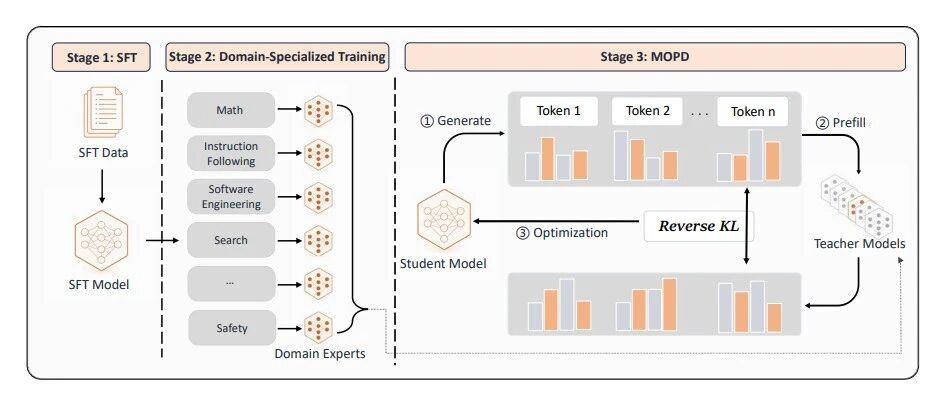
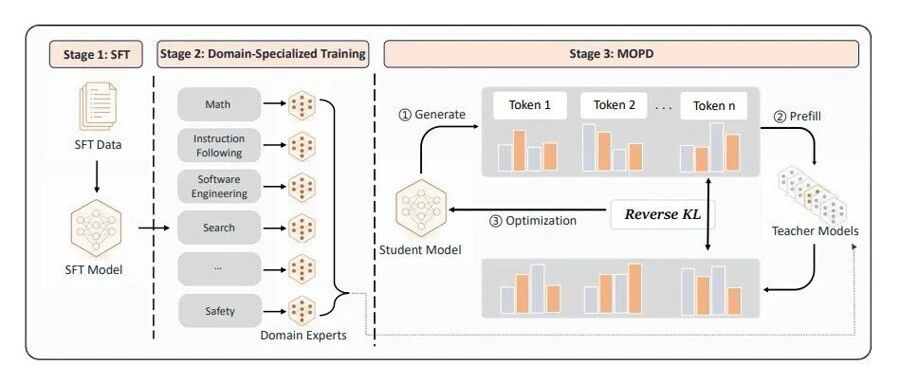
auto: mopd, opd (+5, ~6)

diff --git a/mopd/draft_from_server.html b/mopd/draft_from_server.html
@@ -1,1 +1,1 @@
-<section style="font-family: -apple-system-font,BlinkMacSystemFont, Helvetica Neue, PingFang SC, Hiragino Sans GB , Microsoft YaHei UI , Microsoft YaHei ,Arial,sans-serif;font-size: 16px;line-height: 1.75;text-align: left;"><p><strong style="font-weight: bold;font-size: 16px;color: #1a6ba0;"><span leaf="">要点速览</span></strong></p><p><span leaf="">&nbsp;-&nbsp;</span><strong style="color: #0F4C81;font-weight: bold;font-size: inherit;"><span leaf="">MOPD是什么</span></strong><span leaf="">：Multi-Teacher On-Policy Distillation，一种新的大模型后训练范式，先对各领域独立RL得到领域教师，再在学生自己的生成数据上做蒸馏，实现多领域能力集成。</span><span leaf=""><br  /></span><span leaf=""><br  /></span><span leaf="">&nbsp;-&nbsp;</span><strong style="color: #0F4C81;font-weight: bold;font-size: inherit;"><span leaf="">效果如何</span></strong><span leaf="">：在Qwen3-30B-A3B上归一化得分0.937，领先最佳基线5.5个点；三个领域能力覆盖91-95%，在所有对比方法中最均匀。</span><span leaf=""><br  /></span><span leaf=""><br  /></span><span leaf="">&nbsp;-&nbsp;</span><strong style="color: #0F4C81;font-weight: bold;font-size: inherit;"><span leaf="">结构优势</span></strong><span leaf="">：领域教师完全并行开发，不交叉影响；同源教师（same-origin）是稳定训练的关键：换更强但分布不同的教师反而会崩。</span><span leaf=""><br  /></span><span leaf=""><br  /></span><span leaf="">&nbsp;-&nbsp;</span><strong style="color: #0F4C81;font-weight: bold;font-size: inherit;"><span leaf="">工业验证</span></strong><span leaf="">：已部署在小米MiMo-V2-Flash（309B参数）的后训练流水线中，在大部分基准上媲美或超越领域专用教师。&nbsp;</span></p><hr style="border-style: solid;border-width: 2px 0 0;border-color: rgba(0, 0, 0, 0.1);-webkit-transform-origin: 0 0;-webkit-transform: scale(1, 0.5);transform-origin: 0 0;transform: scale(1, 0.5);height: 0.4em;margin: 1.5em 0;"  /><p style="margin: 1.5em 8px;letter-spacing: 0.1em;color: #3f3f3f;"><span leaf="">RL在LLM后训练中的成功已是共识：数学用可验证答案的PPO/GRPO，代码用沙箱Agent RL，指令遵循用评分标准。每一条流水线都可靠地提升了模型在其目标领域的能力。但问题很简单也极难：</span><strong style="color: #0F4C81;font-weight: bold;font-size: inherit;"><span leaf="">我们需要的是一个数学强人、一个编码高手、一个听话的助手：全部集于一身。</span></strong></p><p style="margin: 1.5em 8px;letter-spacing: 0.1em;color: #3f3f3f;"><span leaf="">把多个领域的能力放进一个模型而不互相干扰，这件事在公开文献中一直没有好的答案。Mix-RL的跷跷板效应、Cascade RL的能力衰退、Off-Policy Finetune的暴露偏差、Param-Merge的权重空间不稳定性：每一种都牺牲了某个维度。</span></p><p style="margin: 1.5em 8px;letter-spacing: 0.1em;color: #3f3f3f;"><span leaf="">小米和北大联合提出的MOPD（Multi-Teacher On-Policy Distillation）给出了一个新的解法：</span><strong style="color: #0F4C81;font-weight: bold;font-size: inherit;"><span leaf="">不在权重空间里搅合，也不在静态数据集上模仿，而是在策略空间中让学生直接向多位领域教师学习。</span></strong></p><p style="margin: 1.5em 8px;letter-spacing: 0.1em;color: #3f3f3f;"><strong style="color: #0F4C81;font-weight: bold;font-size: inherit;"><span leaf="">MOPD的三个阶段</span></strong></p><p style="margin: 1.5em 8px;letter-spacing: 0.1em;color: #3f3f3f;"><span leaf="">MOPD将后训练拆成三段：</span></p><ul style="list-style: circle;padding-left: 1em;margin-left: 0;color: #3f3f3f;" class="list-paddingleft-1"><li style="display: block;margin: 0.2em 8px;color: #3f3f3f;"><section><span leaf="">•&nbsp;</span><strong style="color: #0F4C81;font-weight: bold;font-size: inherit;"><span leaf="">Stage 1：通用SFT</span></strong><span leaf="">。在覆盖所有目标领域的语料上微调基础模型，得到一个共享起点。</span></section></li><li style="display: block;margin: 0.2em 8px;color: #3f3f3f;"><section><span leaf="">•&nbsp;</span><strong style="color: #0F4C81;font-weight: bold;font-size: inherit;"><span leaf="">Stage 2：领域特化RL</span></strong><span leaf="">。从共享起点出发，对每个领域独立训练一个RL专家。数学团队用可验证答案的RL，软件工程团队用沙箱Agent RL，互不干扰、完全并行。</span></section></li><li style="display: block;margin: 0.2em 8px;color: #3f3f3f;"><section><span leaf="">•&nbsp;</span><strong style="color: #0F4C81;font-weight: bold;font-size: inherit;"><span leaf="">Stage 3：MOPD蒸馏</span></strong><span leaf="">。学生从共享起点初始化，各领域专家冻结为教师。在同一批数据上，学生先生成回复（rollout），再按领域分发给对应教师：教师在学生生成的回复上计算每token概率，然后学生通过最小化反向KL散度向教师对齐。</span></section></li></ul><section style="text-align: center;" nodeleaf=""><img class="rich_pages wxw-img" data-aistatus="1" data-imgfileid="100002855" data-s="300,640" data-src="https://mmbiz.qpic.cn/sz_mmbiz_png/MJRkdzPjdxRWAQqmicU4a7icuKxpGcY1dm3erPGOicqZqowZbN9CzurNliaiaHLaADPULztFaC2z3lemiaKUGMICjFjA4TJ4jrvcA65Tb2uKWxoGg/640?wx_fmt=png&amp;from=appmsg" data-type="png" type="block"></section><p style="margin: 1.5em 8px;letter-spacing: 0.1em;color: #3f3f3f;"><strong style="color: #0F4C81;font-weight: bold;font-size: inherit;"><span leaf="">关键设计在Stage 3</span></strong><span leaf="">：教师不是在"自己的"数据上打分，而是在</span><strong style="color: #0F4C81;font-weight: bold;font-size: inherit;"><span leaf="">学生自己生成</span></strong><span leaf="">的文本上打分。这从根本上规避了异策略（off-policy）训练的暴露偏差：学生看到的训练分布和推理分布是一致的。</span></p><p style="margin: 1.5em 8px;letter-spacing: 0.1em;color: #3f3f3f;"><strong style="color: #0F4C81;font-weight: bold;font-size: inherit;"><span leaf="">结构优势不止一个</span></strong></p><p style="margin: 1.5em 8px;letter-spacing: 0.1em;color: #3f3f3f;"><span leaf="">MOPD带来的收益是多层的：</span></p><ul style="list-style: circle;padding-left: 1em;margin-left: 0;color: #3f3f3f;" class="list-paddingleft-1"><li style="display: block;margin: 0.2em 8px;color: #3f3f3f;"><section><span leaf="">•&nbsp;</span><strong style="color: #0F4C81;font-weight: bold;font-size: inherit;"><span leaf="">密集信号</span></strong><span leaf="">：教师在每个token上提供完整的概率分布，而不是RL中一个稀疏的奖励分数</span></section></li><li style="display: block;margin: 0.2em 8px;color: #3f3f3f;"><section><span leaf="">•&nbsp;</span><strong style="color: #0F4C81;font-weight: bold;font-size: inherit;"><span leaf="">彻底解耦</span></strong><span leaf="">：各领域教师可独立开发、独立调参，一个教师的失败不影响其他教师</span></section></li><li style="display: block;margin: 0.2em 8px;color: #3f3f3f;"><section><span leaf="">•&nbsp;</span><strong style="color: #0F4C81;font-weight: bold;font-size: inherit;"><span leaf="">并行加速</span></strong><span leaf="">：教师预填充与学生采样异步重叠，墙钟时间几乎不增加</span></section></li><li style="display: block;margin: 0.2em 8px;color: #3f3f3f;"><section><span leaf="">•&nbsp;</span><strong style="color: #0F4C81;font-weight: bold;font-size: inherit;"><span leaf="">策略空间融合</span></strong><span leaf="">：按提示路由到对应教师，而非在参数空间做权重平均：避免了Param-Merge的不稳定</span></section></li></ul><p style="margin: 1.5em 8px;letter-spacing: 0.1em;color: #3f3f3f;"><strong style="color: #0F4C81;font-weight: bold;font-size: inherit;"><span leaf="">实验结果：五个基线中唯一均匀覆盖</span></strong></p><p style="margin: 1.5em 8px;letter-spacing: 0.1em;color: #3f3f3f;"><span leaf="">在Qwen3-30B-A3B上，MOPD与Mix-RL、Cascade RL、Off-Policy Finetune和Param-Merge（两种变体）对比，覆盖数学、指令遵循和软件工程三个领域。归一化得分消除了各领域的绝对分差，0等于SFT学生，1等于领域特化教师。</span></p><section style="text-align: center;" nodeleaf=""><img class="rich_pages wxw-img" data-aistatus="1" data-imgfileid="100002856" data-s="300,640" data-src="https://mmbiz.qpic.cn/mmbiz_png/MJRkdzPjdxR1PM7OmyTnLOIIiaQoXfhzUMcaBMickETsdIk2ZT7tbc4YibfzR2lSHHnWWdhw7XkckibsOQh31YILUicZFMps4RpI6wMORssl4ENI/640?wx_fmt=png&amp;from=appmsg" data-type="png" type="block"></section><p style="margin: 1.5em 8px;letter-spacing: 0.1em;color: #3f3f3f;"><span leaf="">MOPD以0.937的归一化得分领先最佳基线Mix-RL（0.882）5.5个点。更重要的是，它的三个领域归一化得分落在 [0.91, 0.95]，范围仅0.044，是所有方法中最均匀的。其他方法各有软肋：Cascade RL的数学闭眼率仅57%（范围0.41），Off-Policy Finetune的SWE闭眼率仅65%（范围0.36），Mix-RL虽较均衡但仍差5.5分。Param-Merge的线性平均更是只有0.328。</span></p><p style="margin: 1.5em 8px;letter-spacing: 0.1em;color: #3f3f3f;"><span leaf="">样本效率同样是亮点：MOPD在IF领域约25K样本即触达教师级水平，而Mix-RL每个领域需要150-180K样本。密集的token级监督信号带来了更快的收敛。</span></p><p style="margin: 1.5em 8px;letter-spacing: 0.1em;color: #3f3f3f;"><span leaf=""><img class="rich_pages wxw-img" data-aistatus="1" data-ratio="0.286144578313253" data-src="https://mmbiz.qpic.cn/sz_mmbiz_png/MJRkdzPjdxQzqXtTkKdD6D6CibaAqzQ8Uricrutskic7grhSViaEopKrIcCpR5sB5MsAzNKPxNxRD7EuYgfzV9hsQ0TqWeBte2ibpmbDHOkJhqC0/640?from=appmsg" data-w="996" style="display: block;width: 100%;margin: 1.5em auto;height: auto !important;"></span><span style="font-size:12px;color:rgb(153,153,153);"><span leaf="">MOPD的训练动力学曲线（左：指令遵循，中：数学，右：软件工程）。紫色线为领域专用RL教师参考，MOPD在各领域快速逼近教师水平。</span></span></p><p style="margin: 1.5em 8px;letter-spacing: 0.1em;color: #3f3f3f;"><strong style="color: #0F4C81;font-weight: bold;font-size: inherit;"><span leaf="">工业验证：MiMo-V2-Flash 309B模型</span></strong></p><p style="margin: 1.5em 8px;letter-spacing: 0.1em;color: #3f3f3f;"><span leaf="">MOPD不是实验室玩具。它已被部署在小米MiMo-V2-Flash（309B参数）的后训练中，覆盖数学、代码、指令遵循、软件工程和工具使用五个领域。在7个基准上，MOPD在5个上超越教师、2个上略低于教师（IFBench -2.2，SWE-Bench Verified -0.8），整体匹配甚至超越领域专用教师的表现。</span></p><p style="margin: 1.5em 8px;letter-spacing: 0.1em;color: #3f3f3f;"><strong style="color: #0F4C81;font-weight: bold;font-size: inherit;"><span leaf="">为什么"同源教师"是关键</span></strong></p><p style="margin: 1.5em 8px;letter-spacing: 0.1em;color: #3f3f3f;"><span leaf="">MOPD的一个反直觉发现：</span><strong style="color: #0F4C81;font-weight: bold;font-size: inherit;"><span leaf="">用更强的教师不一定更好。</span></strong><span leaf="">&nbsp;在数学领域，实验将原生的Qwen3-30B-A3B数学教师替换为Qwen3-235B-A22B（一个数学能力更强的超大模型），结果MOPD学生的数学性能反而下降。</span></p><section style="text-align: center;" nodeleaf=""><img class="rich_pages wxw-img" data-aistatus="1" data-imgfileid="100002858" data-s="300,640" data-src="https://mmbiz.qpic.cn/sz_mmbiz_png/MJRkdzPjdxSVz57DzLdyv6fSxGbjakuGlyudMOH9MiaWn2Ju7bTReNCLBDc8JtoNBMNb7hjODWUYIzHiaG7ibz8x32lIXMmCU8OpJjMtHk8lsI/640?wx_fmt=png&amp;from=appmsg" data-type="png" type="block"></section><p style="margin: 1.5em 8px;letter-spacing: 0.1em;color: #3f3f3f;"><span leaf="">原因在分布差距。同源教师与学生只差3个领域的RL训练，初始每token KL散度仅&nbsp;</span><span style="text-decoration: underline wavy;text-decoration-color: #0F4C81;text-decoration-thickness: 2px;"><span leaf="">0.04；而235B大模型教师的分布差距高达&nbsp;</span></span><span leaf="">0.19（5倍）。学生在每个token上都收到大量"你这里不对"的惩罚性梯度信号，策略空间逐渐坍缩到单一模式，top-k蒸馏形式甚至在第18步直接发散。</span></p><section style="text-align: center;" nodeleaf=""><img class="rich_pages wxw-img" data-aistatus="1" data-imgfileid="100002857" data-s="300,640" data-src="https://mmbiz.qpic.cn/mmbiz_png/MJRkdzPjdxRr9fO7wKeTm7V62CDfCic7vt4pd3YVK4XL8qBDTnK9M2rcA5r7M2RkBO2vR9fBmH7HxfFCmtXx6ibVlMicn8m7DSSLIjlHZ6qVDU/640?wx_fmt=png&amp;from=appmsg" data-type="png" type="block"></section><p style="margin: 1.5em 8px;letter-spacing: 0.1em;color: #3f3f3f;"><span leaf="">这个结果传达了一个隐含但重要的设计原则：</span><strong style="color: #0F4C81;font-weight: bold;font-size: inherit;"><span leaf="">蒸馏的优势不在于"利用更强的外部知识"，而在于"在相近的分布上做精细对齐"。</span></strong><span leaf="">&nbsp;同源教师不是一个巧合，而是MOPD稳定性的结构性前提。</span></p><p style="margin: 1.5em 8px;letter-spacing: 0.1em;color: #3f3f3f;"><strong style="color: #0F4C81;font-weight: bold;font-size: inherit;"><span leaf="">多轮迭代：持续进化的可能</span></strong></p><p style="margin: 1.5em 8px;letter-spacing: 0.1em;color: #3f3f3f;"><span leaf="">一轮MOPD后仍有改进空间。将MOPD学生作为新的起点，重新训练领域教师再做第二轮蒸馏，归一化得分从0.937进一步上升到0.986（+0.049）。这打开了持续进化的可能性：每轮蒸馏吸收当前教师的能力，然后新教师从更强的学生出发，在更高起点上再做特化。</span></p><p><strong style="font-weight: bold;font-size: 15px;color: #8b6f4c;"><span leaf="">结语</span></strong></p><p><span leaf="">&nbsp;MOPD的价值不在于它比Mix-RL多了5.5个点：数字在下一次刷榜就可能被超过。它的真正贡献是拆掉了多领域后训练中的耦合。在工程层面，这意味着数学团队和代码团队可以各自迭代、各自重启而互不等待；在系统层面，这意味着从"大家一起塞一个训练脚本"变成了"分开训练、蒸馏集成"的生产线逻辑。</span><span leaf=""><br  /></span><span leaf=""><br  /></span><span leaf="">&nbsp;这思路对大规模模型训练的工业化有直接启示：能力生产（训练）和能力组装（蒸馏）的解耦，可能像硬件设计中IP模块化和片上集成的分离一样，是规模化后训练的必经之路。&nbsp;</span></p><hr style="border-style: solid;border-width: 2px 0 0;border-color: rgba(0, 0, 0, 0.1);-webkit-transform-origin: 0 0;-webkit-transform: scale(1, 0.5);transform-origin: 0 0;transform: scale(1, 0.5);height: 0.4em;margin: 1.5em 0;"  /><p style="margin: 1.5em 8px;letter-spacing: 0.1em;color: #3f3f3f;"><span style="font-size:12px;color:#888888;font-family:&#39;Courier New&#39;,monospace;"><span leaf="">参考：</span></span></p><p style="margin: 1.5em 8px;letter-spacing: 0.1em;color: #3f3f3f;"><span leaf="">https://arxiv.org/html/2606.30406v1</span></p><span leaf="">&nbsp; &nbsp; &nbsp; &nbsp; &nbsp; &nbsp; &nbsp; &nbsp; &nbsp; &nbsp; &nbsp; &nbsp;&nbsp;</span></section><p style="display: none;"><mp-style-type data-value="10000"></mp-style-type></p>
+<section style="font-family: -apple-system-font,BlinkMacSystemFont, Helvetica Neue, PingFang SC, Hiragino Sans GB , Microsoft YaHei UI , Microsoft YaHei ,Arial,sans-serif;font-size: 16px;line-height: 1.75;text-align: left;"><p><strong style="font-weight: bold;font-size: 16px;color: #1a6ba0;"><span leaf="">è¦ç¹éè§</span></strong></p><p><span leaf="">&nbsp;-&nbsp;</span><strong style="color: #0F4C81;font-weight: bold;font-size: inherit;"><span leaf="">MOPDæ¯ä»ä¹</span></strong><span leaf="">ï¼Multi-Teacher On-Policy Distillationï¼ä¸ç§æ°çå¤§æ¨¡ååè®ç»èå¼ï¼å
å¯¹åé¢åç¬ç«RLå¾å°é¢åæå¸ï¼åå¨å¦çèªå·±ççææ°æ®ä¸åè¸é¦ï¼å®ç°å¤é¢åè½åéæã</span><span leaf=""><br  /></span><span leaf=""><br  /></span><span leaf="">&nbsp;-&nbsp;</span><strong style="color: #0F4C81;font-weight: bold;font-size: inherit;"><span leaf="">ææå¨åª</span></strong><span leaf="">ï¼å¨Qwen3-30B-A3Bä¸å½ä¸åå¾å0.937ï¼é¢å
æä½³åºçº¿5.5ä¸ªç¹ï¼ä¸ä¸ªé¢åè½åè¦ç91-95%ï¼æ¯ææå¯¹æ¯æ¹æ³ä¸æååçã</span><span leaf=""><br  /></span><span leaf=""><br  /></span><span leaf="">&nbsp;-&nbsp;</span><strong style="color: #0F4C81;font-weight: bold;font-size: inherit;"><span leaf="">ç»æä¼å¿</span></strong><span leaf="">ï¼é¢åæå¸å®å
¨å¹¶è¡å¼åï¼ä¸äº¤åå½±åï¼åæºæå¸ï¼same-originï¼æ¯ç¨³å®è®ç»çå
³é®ï¼æ¢æ´å¼ºä½åå¸ä¸åçæå¸åèä¼å´©æºã</span><span leaf=""><br  /></span><span leaf=""><br  /></span><span leaf="">&nbsp;-&nbsp;</span><strong style="color: #0F4C81;font-weight: bold;font-size: inherit;"><span leaf="">å·¥ä¸éªè¯</span></strong><span leaf="">ï¼å·²é¨ç½²å¨å°ç±³MiMo-V2-Flashï¼309Båæ°ï¼çåè®ç»æµæ°´çº¿ä¸ï¼å¨å¤§é¨ååºåä¸å¹é
æè¶
è¶é¢åä¸ç¨æå¸ã&nbsp;</span></p><hr style="border-style: solid;border-width: 2px 0 0;border-color: rgba(0, 0, 0, 0.1);-webkit-transform-origin: 0 0;-webkit-transform: scale(1, 0.5);transform-origin: 0 0;transform: scale(1, 0.5);height: 0.4em;margin: 1.5em 0;"  /><p style="margin: 1.5em 8px;letter-spacing: 0.1em;color: #3f3f3f;"><span leaf="">å¼ºåå¦ä¹ å¨LLMåè®ç»ä¸çæåå·²æ¯å
±è¯ï¼æ°å¦ç¨å¯éªè¯çæ¡çPPO/GRPOï¼ä»£ç ç¨æ²ç®±Agent RLï¼æä»¤éµå¾ªç¨è¯åæ åãæ¯ä¸æ¡æµæ°´çº¿é½å¯é å°æåäºæ¨¡åå¨å
¶ç®æ é¢åçè½åãä½é®é¢å¾ç®åä¹æé¾ï¼</span><strong style="color: #0F4C81;font-weight: bold;font-size: inherit;"><span leaf="">æä»¬éè¦çæ¯ä¸ä¸ªæ°å¦å¼ºäººãä¸ä¸ªç¼ç é«æãä¸ä¸ªå¬è¯çå©æï¼å
¨é¨éäºä¸èº«ã</span></strong></p><p style="margin: 1.5em 8px;letter-spacing: 0.1em;color: #3f3f3f;"><span leaf="">æå¤ä¸ªé¢åçè½åæ¾è¿ä¸ä¸ªæ¨¡åèä¸äºç¸å¹²æ°ï¼è¿ä»¶äºå¨å
¬å¼æç®ä¸ä¸ç´æ²¡æå¥½ççæ¡ãMix-RLçè··è··æ¿æåºãCascade RLçè½åè¡°éãOff-Policy Finetuneçæ´é²åå·®ãParam-Mergeçæéç©ºé´ä¸ç¨³å®æ§ï¼æ¯ä¸ç§é½çºç²äºæä¸ªç»´åº¦ã</span></p><p style="margin: 1.5em 8px;letter-spacing: 0.1em;color: #3f3f3f;"><span leaf="">å°ç±³ååäº¬å¤§å¦èåæåºçMOPDï¼Multi-Teacher On-Policy Distillationï¼ç»åºäºä¸ä¸ªæ°çè§£æ³ï¼</span><strong style="color: #0F4C81;font-weight: bold;font-size: inherit;"><span leaf="">ä¸å¨æéç©ºé´éæ
åï¼ä¹ä¸å¨éææ°æ®éä¸æ¨¡ä»¿ï¼èæ¯å¨çç¥ç©ºé´ä¸è®©å¦çç´æ¥åå¤ä½é¢åæå¸å¦ä¹ ã</span></strong></p><p style="margin: 1.5em 8px;letter-spacing: 0.1em;color: #3f3f3f;"><strong style="color: #0F4C81;font-weight: bold;font-size: inherit;"><span leaf="">MOPDçä¸ä¸ªé¶æ®µ</span></strong></p><p style="margin: 1.5em 8px;letter-spacing: 0.1em;color: #3f3f3f;"><span leaf="">MOPDå°åè®ç»ææä¸æ®µï¼</span></p><ul style="list-style: circle;padding-left: 1em;margin-left: 0;color: #3f3f3f;" class="list-paddingleft-1"><li style="display: block;margin: 0.2em 8px;color: #3f3f3f;"><section><span leaf="">â¢&nbsp;</span><strong style="color: #0F4C81;font-weight: bold;font-size: inherit;"><span leaf="">Stage 1ï¼éç¨SFT</span></strong><span leaf="">ãå¨è¦çææç®æ é¢åçè¯æä¸å¾®è°åºç¡æ¨¡åï¼å¾å°ä¸ä¸ªå
±äº«èµ·ç¹ã</span></section></li><li style="display: block;margin: 0.2em 8px;color: #3f3f3f;"><section><span leaf="">â¢&nbsp;</span><strong style="color: #0F4C81;font-weight: bold;font-size: inherit;"><span leaf="">Stage 2ï¼é¢åç¹åRL</span></strong><span leaf="">ãä»å
±äº«èµ·ç¹åºåï¼å¯¹æ¯ä¸ªé¢åç¬ç«è®ç»ä¸ä¸ªRLä¸å®¶ãæ°å¦å¢éç¨å¯éªè¯çæ¡çRLï¼è½¯ä»¶å·¥ç¨å¢éç¨æ²ç®±Agent RLï¼äºä¸å¹²æ°ãå®å
¨å¹¶è¡ã</span></section></li><li style="display: block;margin: 0.2em 8px;color: #3f3f3f;"><section><span leaf="">â¢&nbsp;</span><strong style="color: #0F4C81;font-weight: bold;font-size: inherit;"><span leaf="">Stage 3ï¼MOPDè¸é¦</span></strong><span leaf="">ãå¦çä»å
±äº«èµ·ç¹åå§åï¼åé¢åä¸å®¶å»ç»ä¸ºæå¸ãå¨åä¸æ¹æ°æ®ä¸ï¼å¦çå
çæåå¤ï¼rolloutï¼ï¼åæé¢åååç»å¯¹åºæå¸ï¼æå¸å¨å¦ççæçåå¤ä¸è®¡ç®æ¯tokenæ¦çï¼ç¶åå¦çéè¿æå°åååKLæ£åº¦åæå¸å¯¹é½ã</span></section></li></ul><section style="text-align: center;" nodeleaf=""><img class="rich_pages wxw-img" data-aistatus="1" data-imgfileid="100002874" data-s="300,640" data-src="https://mmbiz.qpic.cn/sz_mmbiz_png/MJRkdzPjdxS9Ums92xGOkPtbm297r64o2hqjafsOd26x09fJWz3Xpwas7d5nVXicnf9wVib0MGiawnMBfAVkMdfEhIckzUAM6XlQsf02AtZnyQ/640?wx_fmt=png&amp;from=appmsg" data-type="png" type="block"></section><p style="margin: 1.5em 8px;letter-spacing: 0.1em;color: #3f3f3f;"><strong style="color: #0F4C81;font-weight: bold;font-size: inherit;"><span leaf="">å
³é®è®¾è®¡å¨Stage 3</span></strong><span leaf="">ï¼æå¸ä¸æ¯å¨"èªå·±ç"æ°æ®ä¸æåï¼èæ¯å¨</span><strong style="color: #0F4C81;font-weight: bold;font-size: inherit;"><span leaf="">å¦çèªå·±çæ</span></strong><span leaf="">çææ¬ä¸æåãè¿ä»æ ¹æ¬ä¸è§é¿äºå¼çç¥ï¼off-policyï¼è®ç»çæ´é²åå·®ï¼å¦ççå°çè®ç»åå¸åæ¨çåå¸æ¯ä¸è´çã</span></p><p style="margin: 1.5em 8px;letter-spacing: 0.1em;color: #3f3f3f;"><strong style="color: #0F4C81;font-weight: bold;font-size: inherit;"><span leaf="">ç»æä¼å¿ä¸æ¢ä¸ä¸ª</span></strong></p><p style="margin: 1.5em 8px;letter-spacing: 0.1em;color: #3f3f3f;"><span leaf="">MOPDå¸¦æ¥çæ¶çæ¯å¤å±çï¼</span></p><ul style="list-style: circle;padding-left: 1em;margin-left: 0;color: #3f3f3f;" class="list-paddingleft-1"><li style="display: block;margin: 0.2em 8px;color: #3f3f3f;"><section><span leaf="">â¢&nbsp;</span><strong style="color: #0F4C81;font-weight: bold;font-size: inherit;"><span leaf="">å¯éä¿¡å·</span></strong><span leaf="">ï¼æå¸å¨æ¯ä¸ªtokenä¸æä¾å®æ´çæ¦çåå¸ï¼èä¸æ¯RLä¸ä¸ä¸ªç¨ççå¥å±åæ°</span></section></li><li style="display: block;margin: 0.2em 8px;color: #3f3f3f;"><section><span leaf="">â¢&nbsp;</span><strong style="color: #0F4C81;font-weight: bold;font-size: inherit;"><span leaf="">å½»åºè§£è¦</span></strong><span leaf="">ï¼åé¢åæå¸å¯ç¬ç«å¼åãç¬ç«è°åï¼ä¸ä¸ªæå¸çå¤±è´¥ä¸å½±åå
¶ä»æå¸</span></section></li><li style="display: block;margin: 0.2em 8px;color: #3f3f3f;"><section><span leaf="">â¢&nbsp;</span><strong style="color: #0F4C81;font-weight: bold;font-size: inherit;"><span leaf="">å¹¶è¡å é</span></strong><span leaf="">ï¼æå¸é¢å¡«å

ä¸å¦çéæ ·å¼æ¥éå ï¼å¢éæ¶é´å ä¹ä¸å¢å </span></section></li><li style="display: block;margin: 0.2em 8px;color: #3f3f3f;"><section><span leaf="">â¢&nbsp;</span><strong style="color: #0F4C81;font-weight: bold;font-size: inherit;"><span leaf="">çç¥ç©ºé´èå</span></strong><span leaf="">ï¼ææç¤ºè·¯ç±å°å¯¹åºæå¸ï¼èéå¨åæ°ç©ºé´åæéå¹³åï¼é¿å
äºParam-Mergeçä¸ç¨³å®</span></section></li></ul><p style="margin: 1.5em 8px;letter-spacing: 0.1em;color: #3f3f3f;"><strong style="color: #0F4C81;font-weight: bold;font-size: inherit;"><span leaf="">å®éªç»æï¼äºä¸ªåºçº¿ä¸å¯ä¸ååè¦ç</span></strong></p><p style="margin: 1.5em 8px;letter-spacing: 0.1em;color: #3f3f3f;"><span leaf="">å¨Qwen3-30B-A3Bä¸ï¼MOPDä¸Mix-RLãCascade RLãOff-Policy FinetuneåParam-Mergeï¼ä¸¤ç§åä½ï¼å¯¹æ¯ï¼è¦çæ°å¦ãæä»¤éµå¾ªåè½¯ä»¶å·¥ç¨ä¸ä¸ªé¢åãå½ä¸åå¾åæ¶é¤äºåé¢åçç»å¯¹åå·®ï¼0çäºSFTå¦çï¼1çäºé¢åç¹åæå¸ã</span></p><p style="margin: 1.5em 8px;letter-spacing: 0.1em;color: #3f3f3f;"><span leaf="">MOPDä»¥0.937çå½ä¸åå¾åé¢å
æä½³åºçº¿Mix-RLï¼0.882ï¼5.5ä¸ªç¹ãæ´éè¦çæ¯ï¼å®çä¸ä¸ªé¢åå½ä¸åå¾åè½å¨ [0.91, 0.95]ï¼èå´ä»
0.044ï¼æ¯æææ¹æ³ä¸æååçãå
¶ä»æ¹æ³åæè½¯èï¼Cascade RLçæ°å¦éç¼çä»
57%ï¼èå´0.41ï¼ï¼Off-Policy FinetuneçSWEéç¼çä»
65%ï¼èå´0.36ï¼ï¼Mix-RLè½è¾åè¡¡ä½ä»å·®5.5åãParam-Mergeççº¿æ§å¹³åæ´æ¯åªæ0.328ã</span></p><p style="margin: 1.5em 8px;letter-spacing: 0.1em;color: #3f3f3f;"><span leaf="">æ ·æ¬æçåæ ·æ¯äº®ç¹ï¼MOPDå¨IFé¢åçº¦25Kæ ·æ¬å³è§¦è¾¾æå¸çº§æ°´å¹³ï¼èMix-RLæ¯ä¸ªé¢åéè¦150-180Kæ ·æ¬ãå¯éçtokençº§çç£ä¿¡å·å¸¦æ¥äºæ´å¿«çæ¶æã</span></p><p style="margin: 1.5em 8px;letter-spacing: 0.1em;color: #3f3f3f;"><span leaf=""><img class="rich_pages wxw-img" data-aistatus="1" data-ratio="0.286144578313253" data-src="https://mmbiz.qpic.cn/mmbiz_png/MJRkdzPjdxSYzUW7ztDiaybnqTnk8elPQA6LvyicGRaPhdAlXeAoe6yhsgklufJ7CibmnTzg68puiaX2suwYRmDibVvDXpZ63Kp1FicYqKNxaBycI/640?from=appmsg" data-w="996" style="display: block;width: 100%;margin: 1.5em auto;"></span><span style="font-size:12px;color:rgb(153,153,153);"><span leaf="">MOPDçè®ç»å¨åå¦æ²çº¿ï¼å·¦ï¼æä»¤éµå¾ªï¼ä¸ï¼æ°å¦ï¼å³ï¼è½¯ä»¶å·¥ç¨ï¼ãç´«è²çº¿ä¸ºé¢åä¸ç¨RLæå¸åèï¼MOPDå¨åé¢åå¿«éé¼è¿æå¸æ°´å¹³ã</span></span></p><p style="margin: 1.5em 8px;letter-spacing: 0.1em;color: #3f3f3f;"><strong style="color: #0F4C81;font-weight: bold;font-size: inherit;"><span leaf="">å·¥ä¸éªè¯ï¼MiMo-V2-Flash 309Bæ¨¡å</span></strong></p><p style="margin: 1.5em 8px;letter-spacing: 0.1em;color: #3f3f3f;"><span leaf="">MOPDä¸æ¯å®éªå®¤ç©å
·ãå®å·²è¢«é¨ç½²å¨å°ç±³MiMo-V2-Flashï¼309Båæ°ï¼çåè®ç»ä¸ï¼è¦çæ°å¦ãä»£ç ãæä»¤éµå¾ªãè½¯ä»¶å·¥ç¨åå·¥å
·ä½¿ç¨äºä¸ªé¢åãå¨7ä¸ªåºåä¸ï¼MOPDå¨5ä¸ªä¸è¶
è¶æå¸ã2ä¸ªä¸ç¥ä½äºæå¸ï¼IFBench -2.2ï¼SWE-Bench Verified -0.8ï¼ï¼æ´ä½å¹é
çè³è¶
è¶é¢åä¸ç¨æå¸çè¡¨ç°ã</span></p><section style="text-align: center;" nodeleaf=""><img class="rich_pages wxw-img" data-aistatus="1" data-imgfileid="100002877" data-s="300,640" data-src="https://mmbiz.qpic.cn/sz_mmbiz_png/MJRkdzPjdxRZRH0bnYzlortUkaCRZxMoKJt9U563EAkAuX4ZNgUic3S6GnOtibHicKfqoxELbXDCt5ypGVcuIfUTmI4FvXlial8OM0MsDjnGnvY/640?wx_fmt=png&amp;from=appmsg" data-type="png" type="block"></section><p style="margin: 1.5em 8px;letter-spacing: 0.1em;color: #3f3f3f;"><strong style="color: #0F4C81;font-weight: bold;font-size: inherit;"><span leaf="">ä¸ºä»ä¹"åæºæå¸"æ¯å
³é®</span></strong></p><p style="margin: 1.5em 8px;letter-spacing: 0.1em;color: #3f3f3f;"><span leaf="">MOPDçä¸ä¸ªåç´è§åç°ï¼</span><strong style="color: #0F4C81;font-weight: bold;font-size: inherit;"><span leaf="">ç¨æ´å¼ºçæå¸ä¸ä¸å®æ´å¥½ã</span></strong><span leaf="">&nbsp;å¨æ°å¦é¢åï¼å®éªå°åççQwen3-30B-A3Bæ°å¦æå¸æ¿æ¢ä¸ºQwen3-235B-A22Bï¼ä¸ä¸ªæ°å¦è½åæ´å¼ºçè¶
å¤§æ¨¡åï¼ï¼ç»æMOPDå¦ççæ°å¦æ§è½åèä¸éã</span></p><p style="margin: 1.5em 8px;letter-spacing: 0.1em;color: #3f3f3f;"><span leaf="">åå å¨åå¸å·®è·ãåæºæå¸ä¸å¦çåªå·®3ä¸ªé¢åçRLè®ç»ï¼åå§æ¯token KLæ£åº¦ä»
&nbsp;</span><span style="text-decoration: underline wavy;text-decoration-color: #0F4C81;text-decoration-thickness: 2px;"><span leaf="">0.04ï¼è235Bå¤§æ¨¡åæå¸çåå¸å·®è·é«è¾¾&nbsp;</span></span><span leaf="">0.19ï¼5åï¼ãå¦çå¨æ¯ä¸ªtokenä¸é½æ¶å°å¤§é"ä½ è¿éä¸å¯¹"çæ©ç½æ§æ¢¯åº¦ä¿¡å·ï¼çç¥ç©ºé´éæ¸åç¼©å°åä¸æ¨¡å¼ï¼top-kè¸é¦å½¢å¼çè³å¨ç¬¬18æ¥ç´æ¥åæ£ã</span></p><section style="text-align: center;" nodeleaf=""><img class="rich_pages wxw-img" data-aistatus="1" data-imgfileid="100002875" data-s="300,640" data-src="https://mmbiz.qpic.cn/mmbiz_png/MJRkdzPjdxT4CWQHvbrdUbe17ZEXhQwVSIlokMbnYUUPSTHgxNI0MUm10kC7eopUlaKgicSskicYlDXIqOqrJB0prAW99vXZNib0IkiaV30KRc4/640?wx_fmt=png&amp;from=appmsg" data-type="png" type="block"></section><p style="margin: 1.5em 8px;letter-spacing: 0.1em;color: #3f3f3f;"><span leaf="">è¿ä¸ªç»æä¼ è¾¾äºä¸ä¸ªéå«ä½éè¦çè®¾è®¡ååï¼</span><strong style="color: #0F4C81;font-weight: bold;font-size: inherit;"><span leaf="">è¸é¦çä¼å¿ä¸å¨äº"å©ç¨æ´å¼ºçå¤é¨ç¥è¯"ï¼èå¨äº"å¨ç¸è¿çåå¸ä¸åç²¾ç»å¯¹é½"ã</span></strong><span leaf="">&nbsp;åæºæå¸ä¸æ¯ä¸ä¸ªå·§åï¼èæ¯MOPDç¨³å®æ§çç»ææ§åæã</span></p><p style="margin: 1.5em 8px;letter-spacing: 0.1em;color: #3f3f3f;"><strong style="color: #0F4C81;font-weight: bold;font-size: inherit;"><span leaf="">å¤è½®è¿ä»£ï¼æç»è¿åçå¯è½</span></strong></p><p style="margin: 1.5em 8px;letter-spacing: 0.1em;color: #3f3f3f;"><span leaf="">ä¸è½®MOPDåä»ææ¹è¿ç©ºé´ãå°MOPDå¦çä½ä¸ºæ°çèµ·ç¹ï¼éæ°è®ç»é¢åæå¸ååç¬¬äºè½®è¸é¦ï¼å½ä¸åå¾åä»0.937è¿ä¸æ¥ä¸åå°0.986ï¼+0.049ï¼ãè¿æå¼äºæç»è¿åçå¯è½æ§ï¼æ¯è½®è¸é¦å¸æ¶å½åæå¸çè½åï¼ç¶åæ°æå¸ä»æ´å¼ºçå¦çåºåï¼å¨æ´é«èµ·ç¹ä¸ååç¹åã<img class="rich_pages wxw-img" data-aistatus="1" data-imgfileid="100002876" data-s="300,640" data-src="https://mmbiz.qpic.cn/sz_mmbiz_png/MJRkdzPjdxSfuvLpdaLlRqQQPblxLvt5xOibaeSlLVrrZh73AAlPYsy3UOS4JviaicAztYJR4JfJo7puAKF40H6APd9lQW4tULt72BIaM23lTY/640?wx_fmt=png&amp;from=appmsg" data-type="png" type="block"></span></p><p><strong style="font-weight: bold;font-size: 15px;color: #8b6f4c;"><span leaf="">ç»è¯</span></strong></p><p><span leaf="">&nbsp;MOPDçä»·å¼ä¸å¨äºå®æ¯Mix-RLå¤äº5.5ä¸ªç¹ï¼æ°åå¨ä¸ä¸æ¬¡å·æ¦å°±å¯è½è¢«è¶
è¿ãå®ççæ£è´¡ç®æ¯ææäºå¤é¢ååè®ç»ä¸çè¦åãå¨å·¥ç¨å±é¢ï¼è¿æå³çæ°å¦å¢éåä»£ç å¢éå¯ä»¥åèªè¿ä»£ãåèªéå¯èäºä¸çå¾
ï¼å¨ç³»ç»å±é¢ï¼è¿æå³çä»"å¤§å®¶ä¸èµ·å¡ä¸ä¸ªè®ç»èæ¬"åæäº"åå¼è®ç»ãè¸é¦éæ"ççäº§çº¿é»è¾ã</span><span leaf=""><br  /></span><span leaf=""><br  /></span><span leaf="">&nbsp;è¿æè·¯å¯¹å¤§è§æ¨¡æ¨¡åè®ç»çå·¥ä¸åæç´æ¥å¯ç¤ºï¼è½åçäº§ï¼è®ç»ï¼åè½åç»è£
ï¼è¸é¦ï¼çè§£è¦ï¼å¯è½åç¡¬ä»¶è®¾è®¡ä¸IPæ¨¡åååçä¸éæçåç¦»ä¸æ ·ï¼æ¯è§æ¨¡ååè®ç»çå¿
ç»ä¹è·¯ã&nbsp;</span></p><hr style="border-style: solid;border-width: 2px 0 0;border-color: rgba(0, 0, 0, 0.1);-webkit-transform-origin: 0 0;-webkit-transform: scale(1, 0.5);transform-origin: 0 0;transform: scale(1, 0.5);height: 0.4em;margin: 1.5em 0;"  /><p style="margin: 1.5em 8px;letter-spacing: 0.1em;color: #3f3f3f;"><span style="font-size:12px;color:#888888;font-family:&#39;Courier New&#39;,monospace;"><span leaf="">åèï¼</span></span></p><p style="margin: 1.5em 8px;letter-spacing: 0.1em;color: #3f3f3f;"><span leaf="">https://arxiv.org/html/2606.30406v1</span></p></section><p style="display: none;"><mp-style-type data-value="10000"></mp-style-type></p>